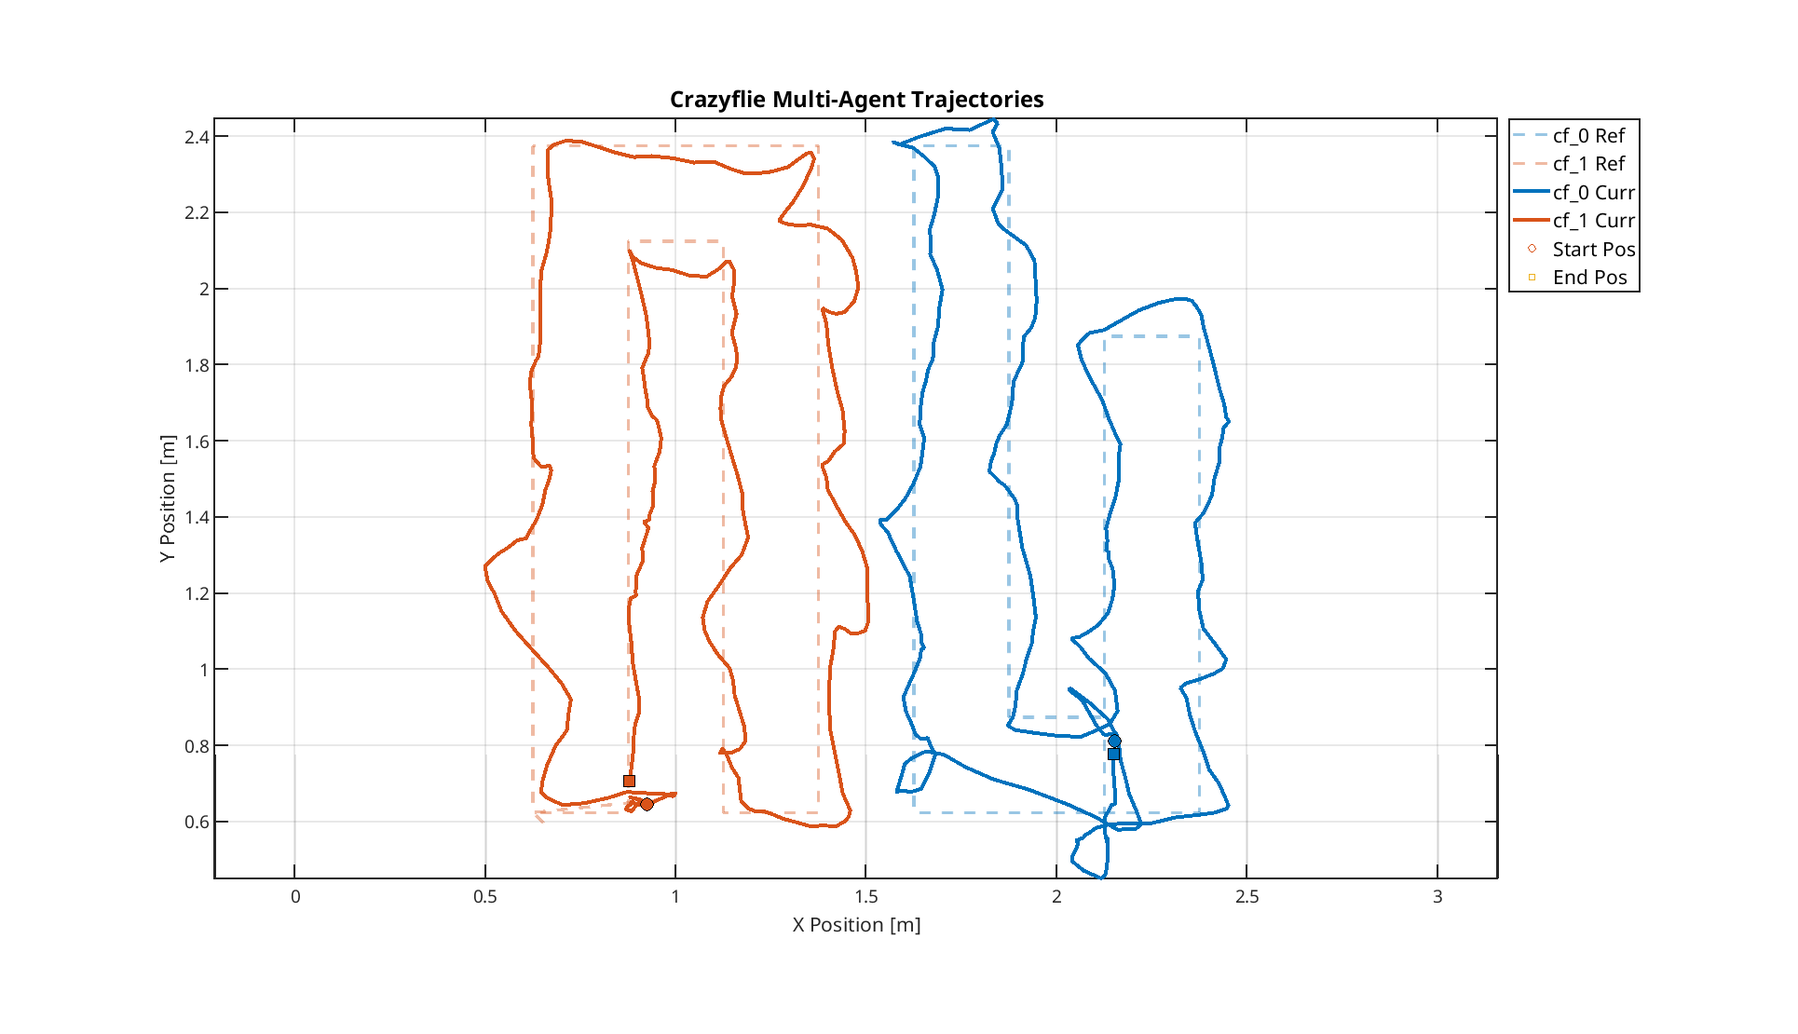
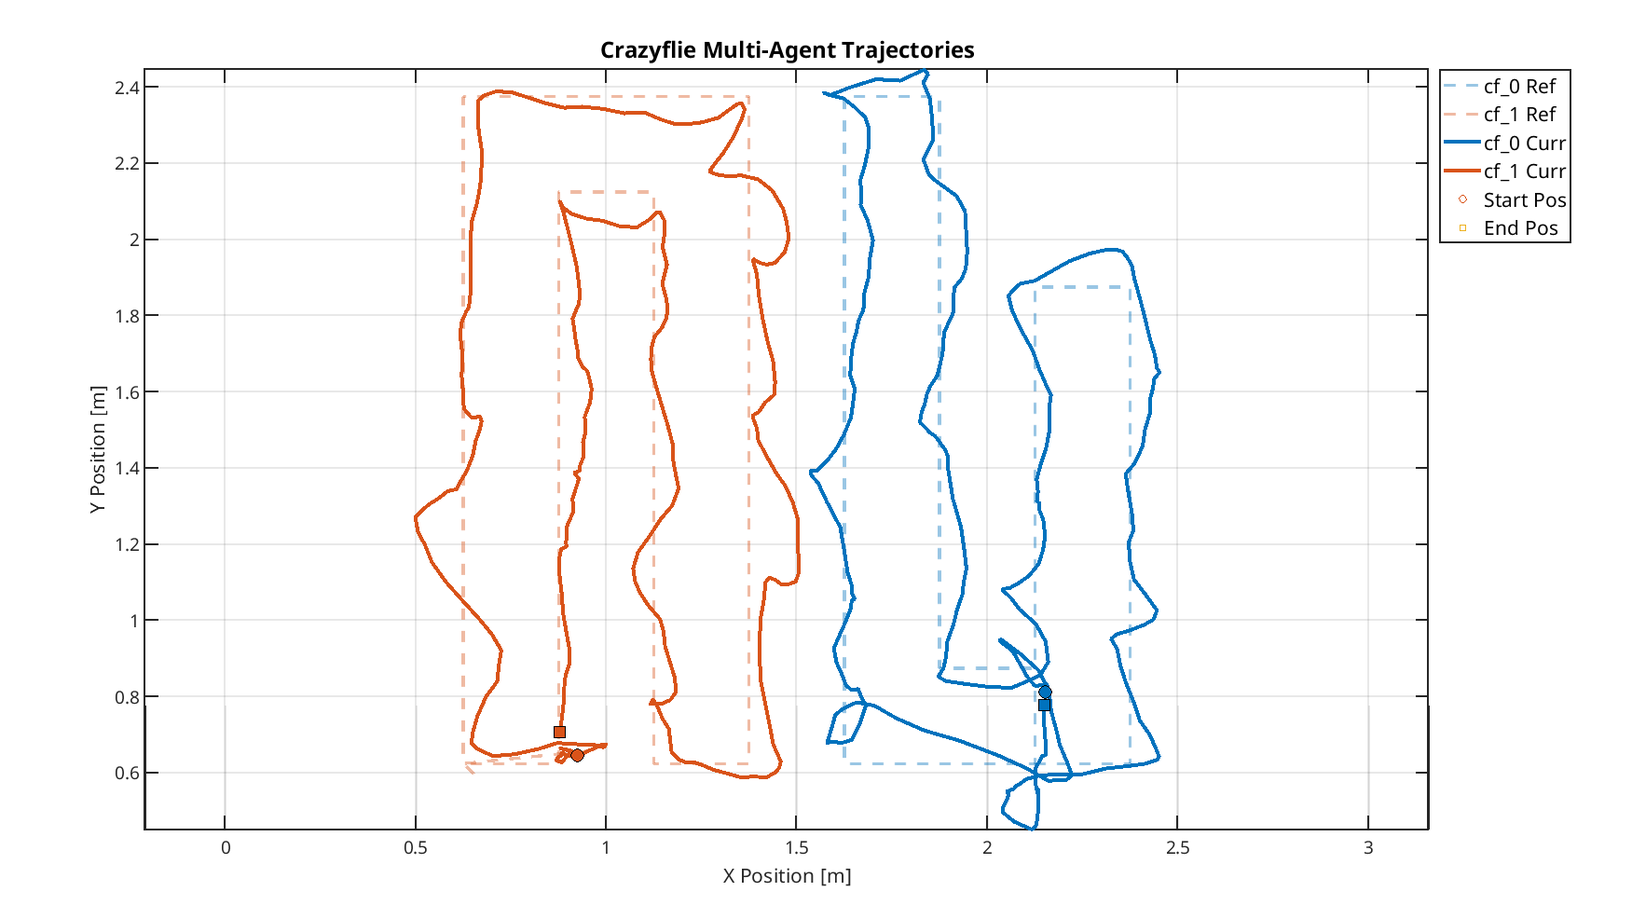
Update document

diff --git a/docs/main.tex b/docs/main.tex
@@ -8,26 +8,27 @@
 \usepackage{textcomp}
 \usepackage{xcolor}
 \usepackage{hyperref}
+\usepackage{booktabs}
+\usepackage{float}
 \def\BibTeX{{\rm B\kern-.05em{\sc i\kern-.025em b}\kern-.08em
     T\kern-.1667em\lower.7ex\hbox{E}\kern-.125emX}}
 \begin{document}
 
 \title{Multi-Robot Coverage Path Planning using DARP on Crazyflie Drones}
 
-\author{\IEEEauthorblockN{1\textsuperscript{st} Jorge Prieto Álvarez}
+\author{
+\IEEEauthorblockN{Jorge Prieto Álvarez\textsuperscript{*}}
 \IEEEauthorblockA{\textit{MSc. in Electronics, Robotics and Automation Engineering} \\
-\textit{Universidad de Sevilla}\\
-Seville, Spain}
+\textit{Universidad de Sevilla}, Seville, Spain}
 \and
-\IEEEauthorblockN{2\textsuperscript{nd} Víctor Javier Granero Gil}
+\IEEEauthorblockN{Víctor Javier Granero Gil\textsuperscript{*}}
 \IEEEauthorblockA{\textit{MSc. in Electronics, Robotics and Automation Engineering} \\
-\textit{Universidad de Sevilla}\\
-Seville, Spain}
+\textit{Universidad de Sevilla}, Seville, Spain}
 \and
-\IEEEauthorblockN{3\textsuperscript{rd} José Francisco López Ruiz}
+\IEEEauthorblockN{José Francisco López Ruiz\textsuperscript{*}}
 \IEEEauthorblockA{\textit{MSc. in Electronics, Robotics and Automation Engineering} \\
-\textit{Universidad de Sevilla}\\
-Seville, Spain}
+\textit{Universidad de Sevilla}, Seville, Spain}
+\thanks{\textsuperscript{*}These authors contributed equally to this work.}
 }
 
 \maketitle
@@ -45,20 +46,37 @@ In recent years, the use of unmanned aerial vehicles (UAVs) has increased signif
 
 Within this context, the coverage path planning (CPP), which is a fundamental problem in mobile robotics, aims to generate trajectories that ensure complete coverage of a target area while minimizing redundancy and inefficiencies. This is done by determining a path that passes over all points in the area of interest while avoiding obstacles. When extended to multi-UAV scenarios, CPP requires additional mechanisms to distribute the workload among agents in an effective manner. This capability is essential for various applications, including search and rescue operations, precision agriculture, floor cleaning, and environmental monitoring.
 
-This project addresses these challenges by integrating the Divide Areas Algorithm for Robotics Platforms (DARP) where the area of interest is partitioned into subregions assigned to individual UAVs. 
+This project addresses these challenges by integrating the Divide Areas Algorithm for Robotics Platforms (DARP) \cite{Kapoutsis} where the area of interest is partitioned into subregions assigned to individual UAVs. 
 
-This practical validation of such algorithms on real robotic platforms is essential to assess their feasibility beyond simulation. Micro-UAV platforms such as the Crazyflie 2.1 \cite{Kapoutsis} provide an appropriate testbed for research in aerial robotics due to their low cost, small size, and compatibility with modern robotic frameworks. In this work, the Crazyflie platform is integrated with ROS2 \cite{macenski2022ros2}, enabling modular development and scalable multi-agent control. Furthermore, accurate indoor localization is achieved through the Loco Positioning System, which provides reliable position estimates in GPS-denied environments.
+The practical validation of such algorithms on real robotic platforms is essential to assess their feasibility beyond simulation. Micro-UAV platforms such as the Crazyflie 2.1 \cite{8046794} provide an appropriate testbed for research in aerial robotics due to their low cost, small size, and compatibility with modern robotic frameworks. In this work, the Crazyflie platform is integrated with ROS2 \cite{macenski2022ros2}, enabling modular development and scalable multi-agent control. Furthermore, accurate indoor localization is achieved through the Loco Positioning System, which provides reliable position estimates in GPS-denied environments.
 
-This paper presents the implementation of a coverage path planning algorithm combined with an area division strategy for multi-UAV systems experimentally evaluated in Gazebo \cite{koenig2004gazebo} for high-fidelity simulation and in an indoor environment equipped with the Loco Positioning System. The main objective is to demonstrate the feasibility of coordinated multi-UAV coverage missions using the Crazyflies and to analyze the system setup from a practical perspective, focusing on the challenges encountered during the implementation process and the solutions adopted to overcome them. This includes issues related to multi-UAV coordination, communication, localization, and integration within the ROS 2 framework, providing insights that may be valuable for future implementations on similar platforms.
+This paper presents the implementation of a coverage path planning algorithm combined with an area division strategy for multi-UAV systems experimentally evaluated in Gazebo \cite{koenig2004gazebo} for high-fidelity simulation and in an indoor environment equipped with the Loco Positioning System. The main objective is to demonstrate the feasibility of coordinated multi-UAV coverage missions using the Crazyflies and to analyze the system setup from a practical perspective, focusing on the challenges encountered during the implementation process and the solutions adopted to overcome them. This includes issues related to multi-UAV coordination, communication, localization, and integration within the ROS 2 framework, providing insights that may be valuable for future implementations on similar platforms. 
 
-The remainder of this paper is organized as follows: Section II reviews the state of the art in Crazyflies and CPP. Section III details the system implementation and architecture. Section IV presents the simulation setup and results. Finally, Section V concludes the paper and discusses future work.
+The source code for this project is publicly available at \url{https://github.com/JoseLopez36/Crazyflie-RoboticsProjects}.
+
+The remainder of this paper is organized as follows: Section II reviews the state of the art in Crazyflies. Section III details the system implementation and architecture. Section IV presents the simulation setup and results. Finally, Section V concludes the paper and discusses future work.
 
 \section{State of the Art}
-UAVs have been extensively studied in recent literature and continue to gain prominence in research due to their potential and implementation in different tasks.  
+UAVs have been widely studied in recent years and continue to gain prominence in the research community because of their versatility and potential to be deployed in projects of a diverse nature, performing a wide range of tasks. This growing is partly driven by continuous advancements in robotics and micro-robotics, which have significantly lowered the entry barrier for research and experimentation. In particular, the emergence of low-cost platforms with high performance capabilities, such as the Crazyflie, has greatly improved accessibility to UAV technologies in both educational and research contexts. 
+
+\subsection{Educational context}
+In the educational context, the Crazyflie has gained recognition as an accessible, easy-to-assemble platform for beginners, providing a first practical contact with the fields of robotics and UAVs. Its educational potential is increasingly highlighted in technical events, such as the 2024 Jornadas de Automática organised by the Comité Español de Automática, where Caballero-Martín et al. \cite{CaballeroMartin2024} showcased the advantages and practical benefits offered by the Crazyflie platform for learning and experimentation providing an overview of Crazyflie, its sensors and positioning systems, as well as the application of a PID controller.
+
+In accordance with the educational objectives, Rafael Xavier Silva Cunha and Daniel Costa Ramos in their work \cite{11249570} present an indoor experimental environment for UAV navigation to use in research and education. This integration utilizes the Loco Positioning System and allows students and researchers to conduct safe and scalable experiments in both simulated and physical settings.
+
+\subsection{Research context}
+Beyond its role in education, Crazyflie has been involved in various research contexts that are directly relevant to this work. Such as coverage planning.  
+
+For example, the work of Ana María Casado et al. \cite{10.1117/12.3063062} introduces a multi-UAV area coverage algorithm that leverages local inter-UAV interactions to achieve faster convergence. Using computational geometry techniques, the algorithm estimates uncovered regions and subsequently guides the UAVs toward those areas.
+
+Along similar lines, the work of Alexandru Conţac and Adrian Burlacu \cite{11240487} leverages Crazyflie micro-UAVs to develop an integrated framework for adaptive motion planning in complex indoor environments for small-scale aerial platforms.
+
+
+May the work presented serve as sufficient and necessary justification for carrying out this work within the Crazyflie framework. Furthermore, we hope this work provide support or a baseline for future work based on the findings presented herein. 
 
 
 
-\section{System Implementation}
+\section{System Implementation} \label{sec:System Implementation}
 
 The proposed system is developed within the ROS 2 (Robot Operating System 2) framework, leveraging its modularity and scalability for multi-robot applications. The architecture is designed to be agnostic to the underlying platform, supporting both high-fidelity simulation and real-world deployment on Crazyflie drones via the \texttt{crazyswarm2} interface.
 
@@ -77,7 +95,7 @@ The node returns the calculated trajectories (lists of waypoints) and a zone map
 \begin{figure}[htbp]
 \centering
 \includegraphics[width=0.8\linewidth]{figures/DARP.png}
-\caption{DARP algorithm partitioning and trajectory generation in \textit{RViZ}.}
+\caption{DARP algorithm partitioning and trajectory generation in RViZ.}
 \label{fig:darp}
 \end{figure}
 
@@ -101,24 +119,31 @@ A dedicated instance of the \texttt{control\_node} runs for each UAV, managing i
 This node interfaces with the lower-level flight controller via standard ROS 2 topics and services provided by the backend.
 
 \subsubsection{Visualization Node}
-The \texttt{visualization\_node} is responsible for generating visual feedback in \textit{RViZ}. It subscribes to agent positions, planned trajectories, and the zone grid, publishing corresponding \texttt{MarkerArray} messages. This allows for real-time monitoring of the coverage progress, grid partitioning, and flight paths.
+The \texttt{visualization\_node} is responsible for generating visual feedback in RViZ. It subscribes to agent positions, planned trajectories, and the zone grid, publishing corresponding \texttt{MarkerArray} messages. This allows for real-time monitoring of the coverage progress, grid partitioning, and flight paths.
 
 \subsection{Simulation Setup}
-The system was developed and validated in a Docker-based environment to ensure reproducibility. The simulation relies on Gazebo paired with the \texttt{crazyswarm2} software-in-the-loop (SITL) backend. This setup accurately models the Crazyflie dynamics and allows for testing complex multi-agent scenarios before real-world deployment.
+The system was developed and validated in a Docker-based environment to ensure reproducibility. The simulation relies on Gazebo paired with the \texttt{crazyswarm2} software-in-the-loop (SITL) backend. This setup accurately models the Crazyflie dynamics and allows for testing complex multi-agent scenarios before real-world deployment. The simulation setup is depicted in Fig. \ref{fig:simulation}.
+
+\begin{figure}[htbp]
+\centering
+\includegraphics[width=0.95\linewidth]{figures/Simulation.png}
+\caption{Simulation environment in Gazebo with Crazyflie drones.}
+\label{fig:simulation}
+\end{figure}
 
 \subsection{Real-World Implementation}
 The experimental validation was conducted using real hardware to assess the system's performance in a physical environment. The setup consists of the following components:
 
 \subsubsection{Robotic Platform}
-The experiments utilize Crazyflie 2.1 nano-quadcopters. Each drone is equipped with:
+The experiments utilize Crazyflie 2.1\footnote{\url{https://www.bitcraze.io/products/old-products/crazyflie-2-1/}} nano-quadcopters. Each drone is equipped with:
 \begin{itemize}
-    \item Loco Positioning Deck: configured in TDoA2 (Time Difference of Arrival 2) mode. TDoA2 is selected over TWR (Two-Way Ranging) as it supports an unlimited number of listeners, making it scalable for multi-robot fleets.
-    \item Flow Deck v2: provides optical flow and a ToF (Time-of-Flight) distance sensor. While the Loco Positioning System provides 3D coordinates, the vertical (Z-axis) estimation can be noisy. The Flow Deck is used to fuse stable height measurements, ensuring consistent altitude hold during the mission.
+    \item Loco Positioning Deck\footnote{\url{https://www.bitcraze.io/products/loco-positioning-deck/}}: configured in TDoA2 (Time Difference of Arrival 2) mode. TDoA2 is selected over TWR (Two-Way Ranging) as it supports an unlimited number of listeners, making it scalable for multi-robot fleets.
+    \item Flow Deck v2\footnote{\url{https://store.bitcraze.io/products/flow-deck-v2}}: provides optical flow and a ToF (Time-of-Flight) distance sensor. While the Loco Positioning System provides 3D coordinates, the vertical (Z-axis) estimation can be noisy. The Flow Deck is used to fuse stable height measurements, ensuring consistent altitude hold during the mission.
 \end{itemize}
-Communication between the ground station and the swarm is handled by a Crazyradio 2.0 USB dongle.
+Communication between the ground station and the swarm is handled by a Crazyradio 2.0\footnote{\url{https://www.bitcraze.io/products/crazyradio-2-0/}} USB dongle.
 
 \subsubsection{Localization System}
-An indoor localization infrastructure, the Loco Positioning System (LPS), was deployed using 8 Loco Positioning Nodes. To maximize the positioning volume and stability, the anchors were arranged in a cubic configuration encompassing the flight area. The nodes were placed at the following coordinates to create a diversified geometry:
+An indoor localization infrastructure, the Loco Positioning System (LPS), was deployed using 8 Loco Positioning Nodes\footnote{\url{https://www.bitcraze.io/products/loco-positioning-node/}}. To maximize the positioning volume and stability, the anchors were arranged in a cubic configuration encompassing the flight area. The nodes were placed at the following coordinates to create a diversified geometry:
 \begin{itemize}
     \item Bottom Plane ($z \approx 0.75m$): Anchors at corners $(0,0)$, $(3.6, 0.0)$, $(0, 3.6)$, and $(3.6, 3.6)$.
     \item Top Plane ($z \approx 2.25m$): Anchors vertically offset from the bottom plane to ensure good geometric distribution.
@@ -132,47 +157,88 @@ This setup, shown in Fig. \ref{fig:lps}, provides accurate position estimates re
 \label{fig:lps}
 \end{figure}
 
-\section{Simulation and Results}
+\section{Results and Discussion}
 
-\subsection{Simulation Environment}
-The system was validated using the Gazebo simulator integrated with \texttt{crazyswarm2}. The simulation environment was configured with:
-\begin{itemize}
-    \item A defined workspace (e.g., $10 \times 10$ meters).
-    \item Multiple Crazyflie 2.1 models.
-    \item Static obstacles placed within the area.
-\end{itemize}
-The simulation setup is depicted in Fig. \ref{fig:simulation}.
+The transition from simulation to real hardware revealed significant practical challenges, mainly regarding localization precision and hardware reliability. The experimental validation was performed using two Crazyflie 2.1 drones in a $3.6 \times 3.6$ m flight area, with the Loco Positioning System (LPS) configured in TDoA2 mode to support multi-agent scalability as detailed in section \ref{sec:System Implementation}.
+
+To evaluate system performances, two experimental runs were chosen as representative case: a nominal run, in which the mission was completed successfully, and a degraded run, where the task could not be fully accomplished. This comparison helps identify the practical operational limits of the proposed approach.
+
+
+\subsubsection{Nominal Mission Analysis}
 
 \begin{figure}[htbp]
 \centering
-\includegraphics[width=0.95\linewidth]{figures/Simulation.png}
-\caption{Simulation environment in Gazebo with Crazyflie drones.}
-\label{fig:simulation}
+\includegraphics[width=0.92\linewidth]{figures/Plot_Hardware_Success.png}
+\caption{Experimental results: nominal trajectory tracking performance.}
+\label{fig:results-success}
 \end{figure}
-
-\subsection{Results}
-The experiments demonstrated the effectiveness of the DARP integration, with trajectory tracking performance summarized in Fig. \ref{fig:results}.
-
 \begin{figure}[htbp]
 \centering
-\includegraphics[width=0.99\linewidth]{figures/Plot_Hardware_Success.png}
-\caption{Experimental results: trajectory tracking performance.}
-\label{fig:results}
+\includegraphics[width=0.92\linewidth]{figures/Plot_Hardware_Degraded.png}
+\caption{Experimental results: degraded trajectory tracking performance.}
+\label{fig:results-degraded}
 \end{figure}
 
-The specific outcomes include: 
-\begin{itemize}
-    \item \textbf{Area Partitioning}: The algorithm successfully divided the available free space into distinct regions for each drone.
-    \item \textbf{Coverage}: The generated paths covered all accessible cells within the assigned zones.
-    \item \textbf{Execution}: The \texttt{control\_node} successfully guided the drones through the generated waypoints with stable flight behavior.
-    \item \textbf{Replanning}: The system showed the capability to update plans dynamically by marking visited cells, although the primary focus was on static offline planning.
-\end{itemize}
+As ilustrated in Fig. \ref{fig:results-success}, both agents were able to cover their assigned DARP regions, although noticeable deviations from the reference trajectories were observed. These deviations are mainly attributed to measurement noise introduced by the UWB-based localization system. The quantitative performance indicators are summarized in Tab. \ref{table:nominal_metrics}.
 
-Visualizations in \textit{RViZ} confirmed the alignment of the planned grid zones with the real-world positions of the drones.
+\begin{table}[H]
+\centering
+\caption{Nominal Flight Performance Metrics}
+\label{table:nominal_metrics}
+\resizebox{\columnwidth}{!}{%
+\begin{tabular}{@{}lcccc@{}}
+\toprule
+\textbf{Robot} & \textbf{Duration [s]} & \textbf{Distance [m]} & \textbf{Avg Speed [m/s]} & \textbf{RMSE [m]} \\ \midrule
+cf\_0 & 35.99 & 12.85 & 0.36 & 1.0317 \\
+cf\_1 & 35.98 & 10.33 & 0.29 & 1.1950 \\ \bottomrule
+\end{tabular}%
+}
+\end{table}
+
+Although RMSE values were relatively high, the system remained stable and completed the coverage task, showing tolerance to localization uncertainty.
+
+\subsubsection{Degraded Mission Analysis}
+
+
+In contrast, the degraded experiment shows unstable trajectories and incomplete coverage of the assigned regions. As shown in Tab \ref{table:degraded_metrics} , both platforms experienced an increase in tracking error together with shorter flight durations, indicating premature termination of the mission.
+
+\begin{table}[H]
+\centering
+\caption{Degraded Flight Performance Metrics (Failure Case)}
+\label{table:degraded_metrics}
+\resizebox{\columnwidth}{!}{%
+\begin{tabular}{@{}lcccc@{}}
+\toprule
+\textbf{Robot} & \textbf{Duration [s]} & \textbf{Distance [m]} & \textbf{Avg Speed [m/s]} & \textbf{RMSE [m]} \\ \midrule
+cf\_0 & 20.79 & 6.23 & 0.30 & 1.2577 \\
+cf\_1 & 22.48 & 8.38 & 0.37 & 1.3239 \\ \bottomrule
+\end{tabular}%
+}
+\end{table}
+
+This performance degradation exposes a critical operating limit: as battery voltage decreases, the controller’s capacity to compensate for TDoA2-related noise and communication delays is significantly reduced. The associated drop in thrust-to-weight ratio destabilizes state estimation and produces trajectory deviations that exceed the tolerance of the DARP grid, ultimately causing mission failure.
+
+
+\subsubsection{Final Discussion}
+
+The discrepancy between the flights, both usin the TDoA2 protocol, allows for a deep technical critique of the system's limitations:
+ 
+\begin{itemize}
+    \item \textbf{Battery-induced instability}: The failure in flight 2 was primarily caused by battery depletion after consecutive flights.  As the voltage decreases, the Crazyflie's thrust-to-weight ratio decreases, making the drone unable to compensate for the high-frequency noise inherent in LPS.
+    \item \textbf{Localization accuracy limits of TDoA2}: Both experiments consistently exhibited RMSE values above 1 m.This confirms that while TDoA2 allows for an unlimited number of agents, it introduces a noise floor that is often of the same order of magnitude as the acceptance radius used for waypoint switching. This results in the "oscillating" behavior observed in the plots as drones struggle to reach the precision required.
+    \item \textbf{Multi-agent communication and interference}: We observed that precision is lower when two drones fly simultaneously compared to single-agent tests. Beyond UWB congestion, a significant factor is the use of a single Crazyradio 2.0 dongle to manage both agents on the same frequency channel. This setup forces the radio to multiplex communication across different addresses, leading to increased latency and a higher rate of packet los, contributing to the higher $RMSE$ observed in multi-agent tests.
+    \item \textbf{Importance of Flow Deck v2}: The Flow Deck v2 played a vital role in maintaining flight stability. In degraded battery states, the fusion of optical flow and ToF (Time-of-Flight) altitude data was the only factor preventing immediate ground collisions due to Z-axis noise from the LPS.
+\end{itemize}
 
 \section{Conclusion}
-This paper presented a ROS2-based framework for multi-robot coverage path planning using Crazyflie drones. By integrating the DARP algorithm, we achieved an efficient division of labor among multiple agents. The modular architecture allows for easy extension, such as adding dynamic obstacle avoidance or scaling to a larger swarm. Future work will focus on deploying this system on physical Crazyflie hardware and implementing real-time decentralized coordination.
+This paper presented the successful implementation of a multi-UAV coverage path planning framework using the DARP algorithm and ROS 2. The proposed system was validated through both high-fidelity simulations and real-world experiments in an indoor environment using Crazyflie 2.1 drones and the Loco Positioning System.
+The experimental results demonstrate that the combination of area division and grid-based path planning effectively ensures complete coverage while preventing agent overlap. However, the transition from simulation to physical hardware revealed a significant trade-off between scalability and localization precision:
 
+\begin{itemize}
+    \item \textbf{System feasibility}: The architecture proved robust enough to maintain coordinated flight behavior even with a localization noise floor exceeding 1 meter $RMSE$ in TDoA2 mode.
+    \item \textbf{Hardware constraints}: We identified battery depletion and the resulting voltage drops as the primary causes of mission failure. These factors compromised the flight controller's stability, leading to the erratic trajectories and premature mission termination observed in degraded trials.
+    \item \textbf{Communication and stability}: The use of a single Crazyradio 2.0 for multiple agents introduced latency that, coupled with the inherent noise of the LPS, challenged the stability of the EKF. Furthermore, the Flow Deck v2 was found to be indispensable for maintaining altitude hold in these power-constrained scenarios.
+    \end{itemize}
 \section*{Acknowledgment}
 The authors would like to thank the teaching staff of the Robotics Projects course for their guidance and support.
 
